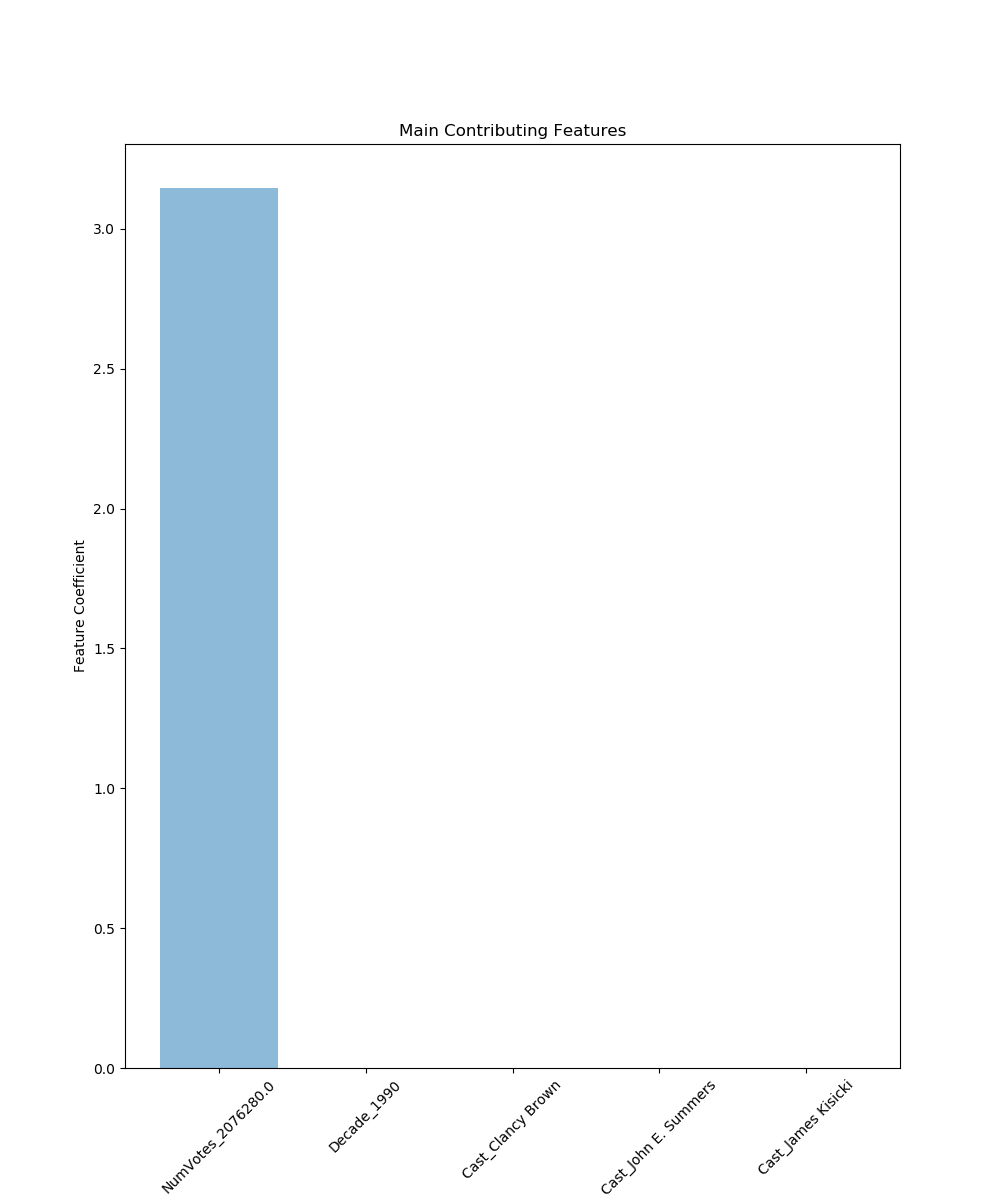
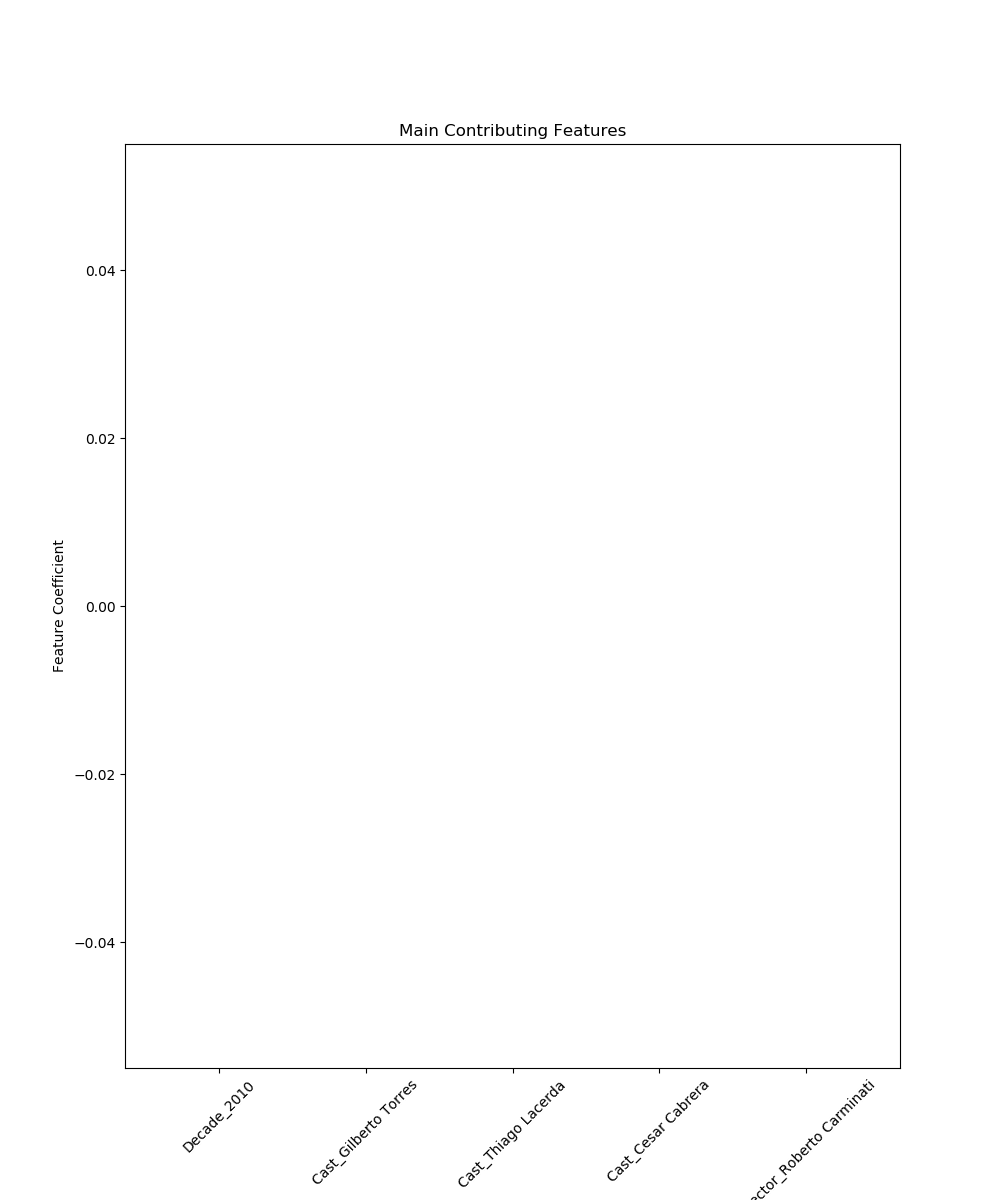
rating and numVotes normalization

diff --git a/NetflixPrize3/NetflixPrize3/views.py b/NetflixPrize3/NetflixPrize3/views.py
@@ -31,8 +31,7 @@ index_to_movie_title_year = {}
 dislikeExists = False
 likeExists = False
 twoSelectionsExist = False
-rating_fill_list = []
-numVotes_fill_list = []
+min_rating = max_rating = min_numVotes = max_numVotes = mean_rating = mean_numVotes = 0
 
 def button(request):
     # print(os.getcwd())
@@ -41,7 +40,7 @@ def button(request):
     if len(titles) > 0:
         movieEntry = fetchFeatures()
         return render(request, 'home.html', {'titles':titles, 'movieData': movieEntry})
-    df = pd.read_csv('IMDB_Final_Movies.csv')
+    # df = pd.read_csv('IMDB_Final_Movies.csv')
     title = df['primaryTitle'].tolist()
     year = df['startYear'].tolist()
     sorted_titles = json.load(open("sorted_movies_for_genres.json"))
@@ -75,14 +74,13 @@ def fetchFeatures(longTitle="dummy"):
     movieEntry["cast_name"] = movieEntry["cast_name"].split('/')
     movieEntry["genres"] = movieEntry["genres"].split(',')
 
-    # entry_feat = convert_to_feat(movieEntry)
     seen_movies.append(longTitle)
 
     return movieEntry
 
 def feedback(request):
     global df, titles, current_user_feat_X, current_user_feat_Y, \
-            dislikeExists, likeExists, twoSelectionsExist, rating_fill_list, numVotes_fill_list
+            dislikeExists, likeExists, twoSelectionsExist
     user_movie_entry = defaultdict(list)
     likeChoice = request.POST.get('likeChoice', False)
     # print(request.POST.get("genres", "N/A")[1])
@@ -95,15 +93,11 @@ def feedback(request):
     user_movie_entry["startYear"] = [request.POST.get("year")]
     print(request.POST.get("year"))
     user_movie_entry["rating"] = [request.POST.get("rating")]
-    if user_movie_entry["rating"] == "no":
-        rating_fill_list.append(len(current_user_feat_X))
     print(request.POST.get("rating"))
     user_movie_entry["numVotes"] = [request.POST.get("numVotes")]
-    if user_movie_entry["numVotes"] == "no":
-        numVotes_fill_list.append(len(current_user_feat_X))
     print(request.POST.get("numVotes"))
 
-    user_feat = convert_to_feat(user_movie_entry)
+    user_feat = convert_to_feat(user_movie_entry, int(likeChoice == "like"))
     current_user_feat_X.append(user_feat)
     current_user_feat_Y.append(likeChoice == "like")
     if not twoSelectionsExist:
@@ -148,11 +142,11 @@ def get_column(matrix, i):
     return [row[i] for row in matrix]
 
 def features_construction():
-    global movies_feat, col
+    global movies_feat, col, min_rating, max_rating, min_numVotes, max_numVotes, mean_rating, mean_numVotes, df
     # read data
-    df1 = pd.read_csv('IMDB_Final_Movies.csv')
+    df = pd.read_csv('IMDB_Final_Movies.csv')
     # data in numpy
-    data = df1.values
+    data = df.values
     if not os.path.exists("feat_to_index.pkl") or not os.path.exists("index_to_feat.pkl"):
         # create list for one hot encoding
         cast_list = list(set(["c_" + j for i in [x.split('/') for x in get_column(data,col["cast_name"])] for j in i]))
@@ -180,6 +174,12 @@ def features_construction():
         onehot_index_to_feat = pickle.load(open("index_to_feat.pkl","rb"))
 
     index_to_movie = {}
+    min_rating = df['averageRating'].min()
+    max_rating = df['averageRating'].max()
+    min_numVotes = df['numVotes'].min()
+    max_numVotes = df['numVotes'].max()
+    mean_rating = df['averageRating'].mean()
+    mean_numVotes = df['numVotes'].mean()
 
     if movies_feat.shape == (1,1):
         movies_feat = lil_matrix((len(data),len(onehot_feat_to_index)))
@@ -202,9 +202,11 @@ def features_construction():
             decade = int(m[col["startYear"]]/10) * 10
             movies_feat[i,onehot_feat_to_index[decade]] = 1
             # rating
-            movies_feat[i,len(onehot_feat_to_index)-2] = m[col["averageRating"]]
+            movies_feat[i,len(onehot_feat_to_index)-2] = (m[col["averageRating"]] - min_rating)\
+                / (max_rating - min_rating)
             # numVotes
-            movies_feat[i,len(onehot_feat_to_index)-1] = m[col["numVotes"]]
+            movies_feat[i,len(onehot_feat_to_index)-1] = (m[col["numVotes"]] - min_numVotes)\
+                / (max_numVotes - min_numVotes)
 
     if not os.path.exists("index_to_movie.pkl"):
         f = open("index_to_movie.pkl","wb")
@@ -215,8 +217,9 @@ def features_construction():
 
     return onehot_feat_to_index, onehot_index_to_feat, index_to_movie
 
-def convert_to_feat(movie_entry):
-    global onehot_feat_to_index, current_user_feat_X
+def convert_to_feat(movie_entry, label):
+    global onehot_feat_to_index, current_user_feat_X, current_user_feat_Y
+    global min_rating, max_rating, min_numVotes, max_numVotes, mean_rating, mean_numVotes
     feat = np.zeros(len(onehot_feat_to_index))
     # cast
     for c in movie_entry["cast_name"]:
@@ -235,26 +238,31 @@ def convert_to_feat(movie_entry):
         decade = int(int(movie_entry["startYear"][0])/10) * 10
         feat[onehot_feat_to_index[decade]] = 1
     # rating
-    magicRating = 7
+    magicRating = (mean_rating - min_rating) / (max_rating - min_rating)
     if movie_entry["rating"][0] != "no":
-        feat[len(onehot_feat_to_index)-2] = float(movie_entry["rating"][0])
+        feat[len(onehot_feat_to_index)-2] = (float(movie_entry["rating"][0]) - min_rating)\
+            / (max_rating - min_rating)
     else:
+        satisfied_Y = np.where(np.array(current_user_feat_Y) == label)[0]
         feat[len(onehot_feat_to_index)-2] = \
-            np.mean(np.array(current_user_feat_X)[:,len(onehot_feat_to_index)-2]) \
-            if len(current_user_feat_X) > 0 else magicRating
+            np.mean(np.array(current_user_feat_X)[satisfied_Y][:,len(onehot_feat_to_index)-2]) \
+                if len(satisfied_Y) > 0 else magicRating
     # numVotes
-    magicNumVotes = 10000
+    magicNumVotes = (mean_numVotes - min_numVotes) / (max_numVotes - min_numVotes)
     if movie_entry["numVotes"][0] != "no":
-        feat[len(onehot_feat_to_index)-1] = float(movie_entry["numVotes"][0])
+        feat[len(onehot_feat_to_index)-1] = (float(movie_entry["numVotes"][0]) - min_numVotes)\
+            / (max_numVotes - min_numVotes)
     else:
+        satisfied_Y = np.where(np.array(current_user_feat_Y) == label)[0]
         feat[len(onehot_feat_to_index)-1] = \
-            np.mean(np.array(current_user_feat_X)[:,len(onehot_feat_to_index)-1]) \
-            if len(current_user_feat_X) > 0 else magicNumVotes
+            np.mean(np.array(current_user_feat_X)[satisfied_Y][:,len(onehot_feat_to_index)-1]) \
+                if len(satisfied_Y) > 0 else magicNumVotes
 
     return feat
 
 def train(X,Y):
     global onehot_index_to_feat, movies_feat, index_to_movie_title_year, seen_movies
+    global min_rating, max_rating, min_numVotes, max_numVotes
     X = lil_matrix(X)
     clf = DecisionTreeClassifier()
     clf.fit(X,Y)
@@ -295,9 +303,11 @@ def train(X,Y):
                 g = onehot_index_to_feat[k].split('g_')[1]
                 featToCoef["Genre_" + g] = logCoef[0, k]
             elif k == len(onehot_feat_to_index)-1:
-                featToCoef["NumVotes_{}".format(v)] = logCoef[0, k] * v
+                featToCoef["NumVotes_{}".format(v*(max_numVotes - min_numVotes) + min_numVotes)] = \
+                    logCoef[0, k] * v
             elif k == len(onehot_feat_to_index)-2:
-                featToCoef["Rating_{}".format(v)] = logCoef[0, k] * v
+                featToCoef["Rating_{}".format(v*(max_rating - min_rating) + min_rating)] = \
+                    logCoef[0, k] * v
             else:
                 featToCoef["Decade_{}".format(onehot_index_to_feat[k])] = logCoef[0, k]
 
@@ -322,7 +332,8 @@ def train(X,Y):
 
     utility.plot_features(sortedLogFeat)
 
-    print(index_to_movie_title_year[recommended_movie])
+    print(index_to_movie_title_year[log_recommended_movie])
+    recommended_movie = log_recommended_movie
 
     # referrence: https://scikit-learn.org/stable/auto_examples/tree/plot_unveil_tree_structure.html#sphx-glr-auto-examples-tree-plot-unveil-tree-structure-py
     feature = clf.tree_.feature
